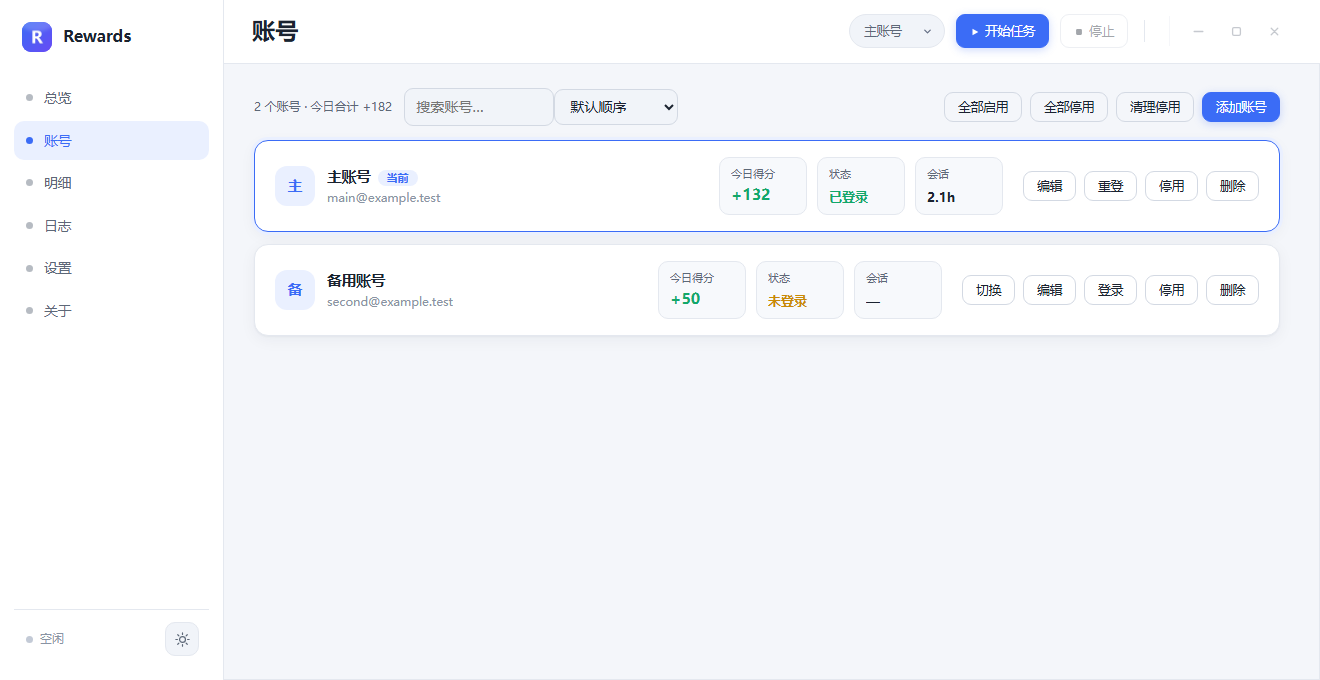
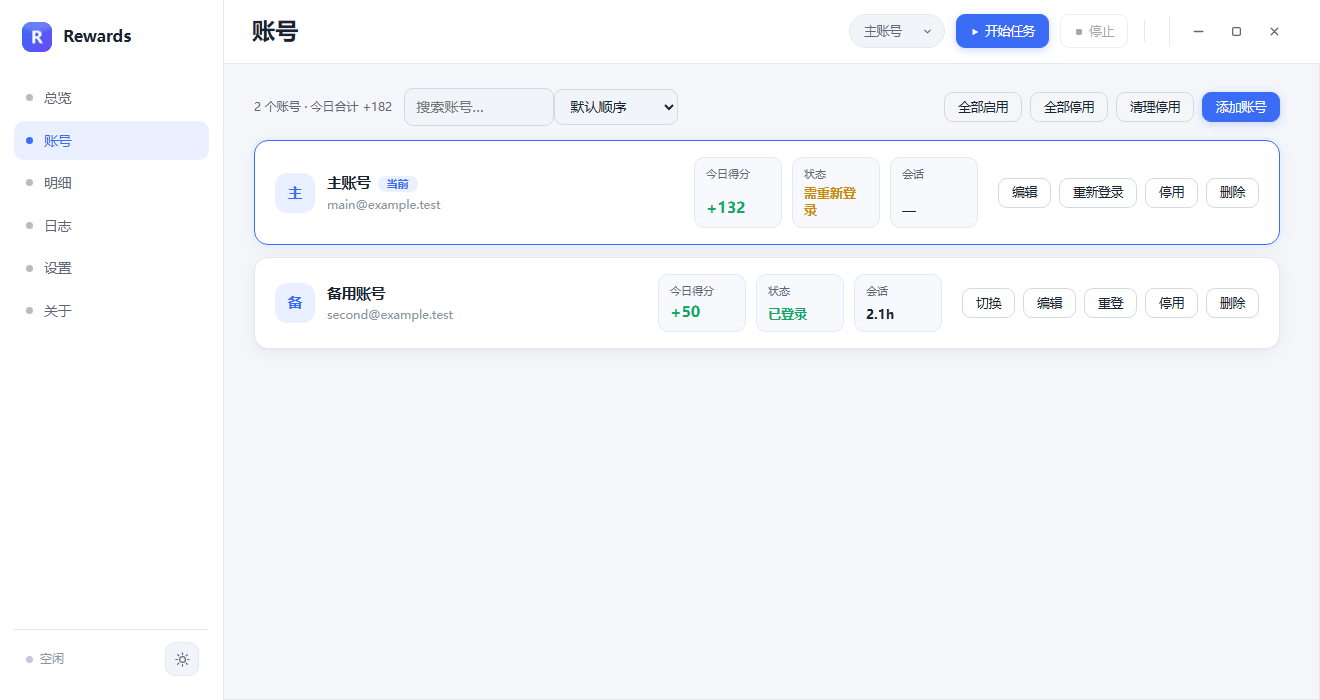
Sync account login status after task failures

diff --git a/panel/index.html b/panel/index.html
@@ -278,6 +278,7 @@
   #accGrid{display:flex;flex-direction:column;gap:12px}
   #accGrid .acc{display:grid;grid-template-columns:minmax(180px,1.1fr) auto auto;align-items:center;gap:20px;padding:16px 20px}
   #accGrid .acc .meta{margin:0;grid-template-columns:repeat(3,88px)}
+  #accGrid .acc .meta .session-state{white-space:normal;overflow-wrap:anywhere}
   #accGrid .acc .acts{margin:0;justify-content:flex-end}
   @media(max-width:1080px){
     #accGrid .acc{grid-template-columns:1fr;gap:12px}
@@ -1083,9 +1084,11 @@ function renderHome(d){
   const items=(acc&&acc.items)||[];
   const cur=items.find(a=>a.active)||items[0];
   if(cur){
-      $('sSession').textContent = cur.loggedIn ? '有效' : '需登录';
-    $('sSession').className = 'v ' + (cur.loggedIn?'gr':'am');
-    $('sSessionSub').textContent = cur.loggedIn ? cur.sessionHours+' 小时前更新' : '到「账号」页重新登录';
+    const otherNeedsLogin=items.filter(account=>account!==cur && account.enabled && account.needsLogin).length;
+    $('sSession').textContent=cur.needsLogin?'需重新登录':cur.loggedIn?'有效':'需登录';
+    $('sSession').className='v '+(cur.loggedIn?'gr':'am');
+    const sessionDetail=cur.loggedIn?cur.sessionHours+' 小时前更新':'到「账号」页登录';
+    $('sSessionSub').textContent=otherNeedsLogin?sessionDetail+' · 另有 '+otherNeedsLogin+' 个账号需重登':sessionDetail;
   } else {
     $('sSession').textContent='—'; $('sSession').className='v';
     $('sSessionSub').textContent='—';
@@ -1094,7 +1097,8 @@ function renderHome(d){
   const pts=[]; if(log.startBalance!=null) pts.push(log.startBalance);
   (log.actions||[]).forEach(a=>pts.push(a.balance));
   spark(pts);
-  $('phaseText').textContent = log.phase && log.phase!=='运行中' ? '当前阶段：'+log.phase : '';
+  $('phaseText').textContent = log.phase && log.phase!=='运行中'
+    ? (d.running?'当前阶段：':'最近任务阶段：')+log.phase : '';
 
   $('quotaBox').innerHTML = log.quota
     ? [['移动端',log.quota.mobile],['浏览器',log.quota.browser],['App',log.quota.app]]
@@ -1134,19 +1138,21 @@ function renderAccounts(acc, running){
   $('btnAdd').disabled=running;
   $('accGrid').innerHTML=items.map(a=>{
     const initial=(a.alias||a.email).slice(0,1).toUpperCase();
-    const st = a.loggedIn ? '<span style="color:var(--green)">已登录</span>' : '<span style="color:var(--amber)">未登录</span>';
+    const sessionLabel=a.needsLogin?'需重新登录':a.loggedIn?'已登录':'未登录';
+    const loginLabel=a.needsLogin?'重新登录':a.loggedIn?'重登':'登录';
+    const sessionColor=a.loggedIn?'var(--green)':'var(--amber)';
     return '<div class="acc'+(a.active?' cur':'')+'">'
       +'<div class="top"><div class="av">'+esc(initial)+'</div>'
       +'<div style="min-width:0"><div class="nm">'+esc(a.alias)+(a.active?'<span class="tag">当前</span>':'')+'</div>'
       +'<div class="em">'+esc(a.email)+'</div></div></div>'
       +'<div class="meta">'
       +'<div><div class="k">今日得分</div><div class="m" style="color:var(--green)">'+(a.points?'+'+a.points:'—')+'</div></div>'
-      +'<div><div class="k">状态</div><div class="m" style="font-size:13px">'+st+'</div></div>'
+      +'<div><div class="k">状态</div><div class="m session-state" style="font-size:13px;color:'+sessionColor+'">'+sessionLabel+'</div></div>'
       +'<div><div class="k">会话</div><div class="m" style="font-size:13px">'+(a.loggedIn?a.sessionHours+'h':'—')+'</div></div>'
       +'</div><div class="acts">'
       +(a.active?'':'<button class="sm" data-act="switch" data-email="'+esc(a.email)+'">切换</button>')
       +'<button class="sm" data-act="edit" data-email="'+esc(a.email)+'">编辑</button>'
-      +'<button class="sm" data-act="login" data-email="'+esc(a.email)+'">'+(a.loggedIn?'重登':'登录')+'</button>'
+      +'<button class="sm" data-act="login" data-email="'+esc(a.email)+'">'+loginLabel+'</button>'
       +'<button class="sm" data-act="toggle" data-email="'+esc(a.email)+'" data-on="'+(a.enabled?1:0)+'">'+(a.enabled?'停用':'启用')+'</button>'
       +'<button class="sm" data-act="remove" data-email="'+esc(a.email)+'">删除</button>'
       +'</div></div>';

diff --git a/run_history.py b/run_history.py
@@ -39,6 +39,12 @@ CREATE TABLE IF NOT EXISTS runs (
 )
 """
 SOURCES = ("manual", "daily", "boot")
+LOGIN_FAILURES_SCHEMA = """
+CREATE TABLE account_login_failures (
+    email TEXT PRIMARY KEY,
+    required_at REAL NOT NULL
+)
+"""
 ACCOUNT_FAILURES = {"failed", "needs_login", "skipped"}
 NO_WINDOW = getattr(subprocess, "CREATE_NO_WINDOW", 0)
 BUSY_EXIT = 75
@@ -81,6 +87,55 @@ def _begin_write(conn: sqlite3.Connection) -> None:
         conn.execute("ALTER TABLE runs ADD COLUMN schedule_kind TEXT")
     conn.execute("""CREATE UNIQUE INDEX IF NOT EXISTS runs_scheduled_slot
                     ON runs(scheduled_at) WHERE schedule_kind != 'retry'""")
+    if not _has_login_failures_table(conn):
+        conn.execute(LOGIN_FAILURES_SCHEMA)
+        _store_login_failures(conn, _historical_login_failures(conn))
+
+
+def _has_login_failures_table(conn: sqlite3.Connection) -> bool:
+    return conn.execute("SELECT 1 FROM sqlite_master WHERE name = 'account_login_failures'").fetchone() is not None
+
+
+def _login_failures(accounts: list[dict], finished_at: float) -> dict[str, float]:
+    return {row["email"].casefold(): row.get("loginRequiredAt", finished_at * 1000)
+            for row in accounts if row["status"] == "needs_login"}
+
+
+def _historical_login_failures(conn: sqlite3.Connection) -> dict[str, float]:
+    failures: dict[str, float] = {}
+    rows = conn.execute("""SELECT accounts, finished_at FROM runs
+                           WHERE finished_at IS NOT NULL AND accounts LIKE '%"needs_login"%'""")
+    for row in rows:
+        try:
+            accounts = json.loads(row["accounts"])
+            for email, required_at in _login_failures(accounts, row["finished_at"]).items():
+                failures[email] = max(required_at, failures.get(email, 0))
+        except (TypeError, ValueError, KeyError):
+            continue
+    return failures
+
+
+def _store_login_failures(conn: sqlite3.Connection, failures: dict[str, float]) -> None:
+    conn.executemany(
+        """INSERT INTO account_login_failures(email, required_at) VALUES (?, ?)
+           ON CONFLICT(email) DO UPDATE SET required_at = MAX(required_at, excluded.required_at)""",
+        failures.items(),
+    )
+
+
+def account_login_failures(data: Path) -> dict[str, float]:
+    if not (data / "runs.sqlite3").is_file():
+        return {}
+    try:
+        with closing(_connect(data)) as conn:
+            conn.execute("BEGIN")
+            if _has_login_failures_table(conn):
+                return dict(conn.execute("SELECT email, required_at FROM account_login_failures"))
+            if conn.execute("SELECT 1 FROM sqlite_master WHERE name = 'runs'").fetchone():
+                return _historical_login_failures(conn)
+    except sqlite3.Error:
+        pass
+    return {}
 
 
 def processed_slots(data: Path, since: int) -> set[int]:
@@ -278,7 +333,7 @@ def request_stop(data: Path) -> dict | None:
 
 def _results(events: Path, code: int) -> tuple[str, list[dict], int | None]:
     accounts: dict[str, dict] = {}
-    login: set[str] = set()
+    login: dict[str, int | None] = {}
     ended = failed = skipped = False
 
     def account(email: str) -> dict:
@@ -302,9 +357,9 @@ def _results(events: Path, code: int) -> tuple[str, list[dict], int | None]:
                 else:
                     row = account(event["email"])
                     if kind == "login":
-                        login.add(row["email"].casefold())
+                        login[row["email"].casefold()] = event.get("at")
                     elif kind == "login_ok":
-                        login.discard(row["email"].casefold())
+                        login.pop(row["email"].casefold(), None)
                     elif kind == "started":
                         row["status"] = "started"
                     else:
@@ -317,6 +372,8 @@ def _results(events: Path, code: int) -> tuple[str, list[dict], int | None]:
             row["status"] = "not_run"
         elif key in login and row["status"] in {"failed", "started"}:
             row["status"] = "needs_login"
+            if login[key] is not None:
+                row["loginRequiredAt"] = login[key]
         elif row["status"] == "pending":
             row["status"] = "not_run"
         elif row["status"] == "started":
@@ -346,10 +403,14 @@ def _finish(data: Path, run_id: int, status: str, accounts: list[dict], points: 
             for account in accounts:
                 if account["status"] in {"unknown", "interrupted"}:
                     account["status"] = "stopped"
+        finished_at = time.time()
+        _store_login_failures(conn, _login_failures(accounts, finished_at))
+        for account in accounts:
+            account.pop("loginRequiredAt", None)
         conn.execute(
             """UPDATE runs SET status = ?, finished_at = ?, accounts = ?, points = ?, exit_code = ?,
                reason = ? WHERE id = ?""",
-            (status, time.time(), json.dumps(accounts, ensure_ascii=False), points, code, reason, run_id),
+            (status, finished_at, json.dumps(accounts, ensure_ascii=False), points, code, reason, run_id),
         )
     return status
 

diff --git a/panel/accounts.py b/panel/accounts.py
@@ -30,6 +30,8 @@ import time
 from datetime import datetime
 from pathlib import Path
 
+import run_history
+
 ROOT = Path(os.environ.get("REWARDS_APP_ROOT") or Path(__file__).resolve().parent.parent)
 DATA_DIR = Path(os.environ.get("REWARDS_DATA_DIR") or ROOT / "data")
 NODE = ROOT / "app" / "node.exe"
@@ -406,18 +408,23 @@ def mask_of(email: str) -> str:
 def summary() -> dict:
     data = load()
     sessions = _session_rows()
+    login_failures = run_history.account_login_failures(DATA_DIR)
     points, balance = _points_by_mask()
     now = time.time() * 1000
     items = []
     for acc in data["accounts"]:
         row = sessions.get(acc["email"], {})
         upd = row.get("desktop") or row.get("mobile")
+        last_login = acc.get("lastLogin")
+        last_verified = last_login if type(last_login) is int else 0
+        needs_login = login_failures.get(acc["email"].casefold(), 0) > last_verified
         items.append({
             "email": acc["email"],
             "alias": acc.get("alias") or acc["email"].split("@")[0],
             "enabled": acc.get("enabled", True),
             "active": (data.get("active") or "").lower() == acc["email"].lower(),
-            "loggedIn": bool(upd),
+            "loggedIn": bool(upd) and not needs_login,
+            "needsLogin": needs_login,
             "sessionHours": round((now - upd) / 3600000, 1) if upd else None,
             "points": points.get(mask_of(acc["email"]), 0),
             "hasTotp": bool(acc.get("totp")),
@@ -486,8 +493,12 @@ def start_login(email: str, *, existing_only: bool = False) -> dict:
             except Exception:
                 continue
             if payload.get("stage") == "saved":
+                try:
+                    mark_login(email)
+                except OSError:
+                    _jobs[job_id].update(state="failed", msg="已保存会话，但无法更新账号登录状态")
+                    continue
                 _jobs[job_id].update(state="saved", cookies=payload.get("cookies", 0), msg="登录成功")
-                mark_login(email)
             elif payload.get("ok") is False:
                 _jobs[job_id].update(state="failed", msg=payload.get("error", "失败"))
         proc.wait()
